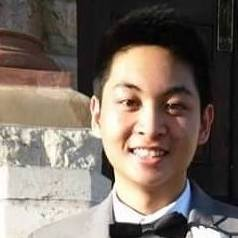
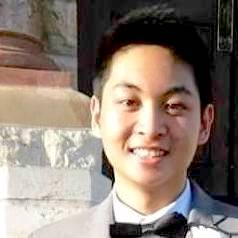
Color-corrected images to correct discrepancies in lighting, made members row scrollable in only mobile, corrected title centering in mobile, added KJ

diff --git a/index.html b/index.html
@@ -21,7 +21,7 @@
       <div class="navbar-fixed">
          <nav>
             <div class="nav-wrapper green lighten-2">
-               <a href="javascript:void(0);" class="brand-logo">&nbsp;&nbsp;Team 5212</a>
+               <a href="javascript:void(0);" class="brand-logo"><span class="hide-on-med-and-down">&nbsp;&nbsp;</span>Team 5212</a>
 
                <a href="#" data-activates="nav-mobile-side" class="button-collapse"><i class="material-icons">menu</i></a>
                <ul id="nav-mobile" class="right hide-on-med-and-down">
@@ -129,6 +129,12 @@
                   <center class="member-label">Josiah</center>
                   <center class="member-title">&nbsp;</center>
                </div>
+               <div>
+                  <img class="img-circle" src="photos/kj.jpg"></img>
+                  <center class="member-label">KJ</center>
+                  <center class="member-title">&nbsp;</center>
+               </div>
+               <br />
                <div>
                   <img class="img-circle" src="photos/tobias.jpg"></img>
                   <center class="member-label">Tobias</center>

diff --git a/css/5212.css b/css/5212.css
@@ -105,3 +105,12 @@
      font-weight:300; font-size: 30px;
   }
 }
+@media (min-width:600px){
+   .members-container>br{
+      display: none !important;
+   }
+   .members-container{
+      overflow-x: scroll;
+      white-space: nowrap;
+   }
+}
